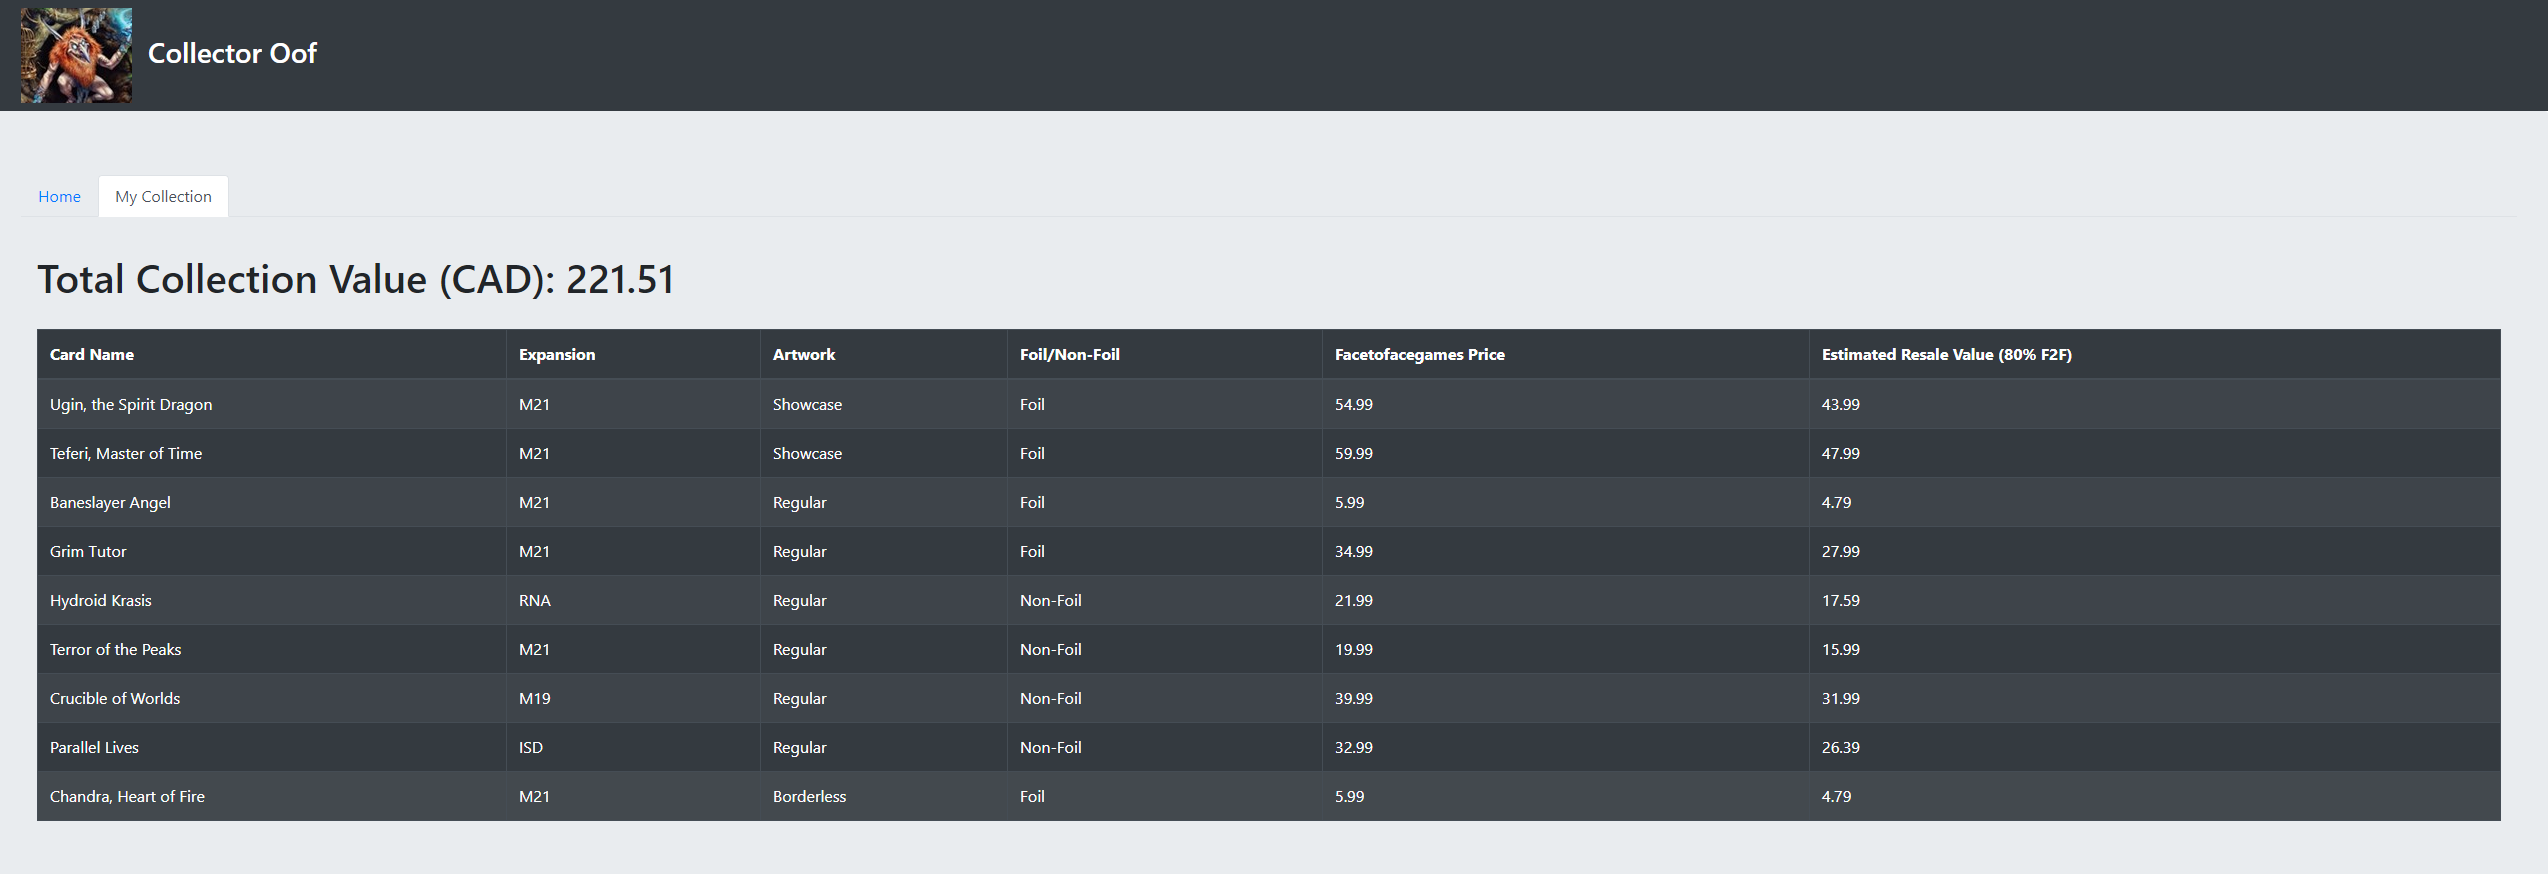
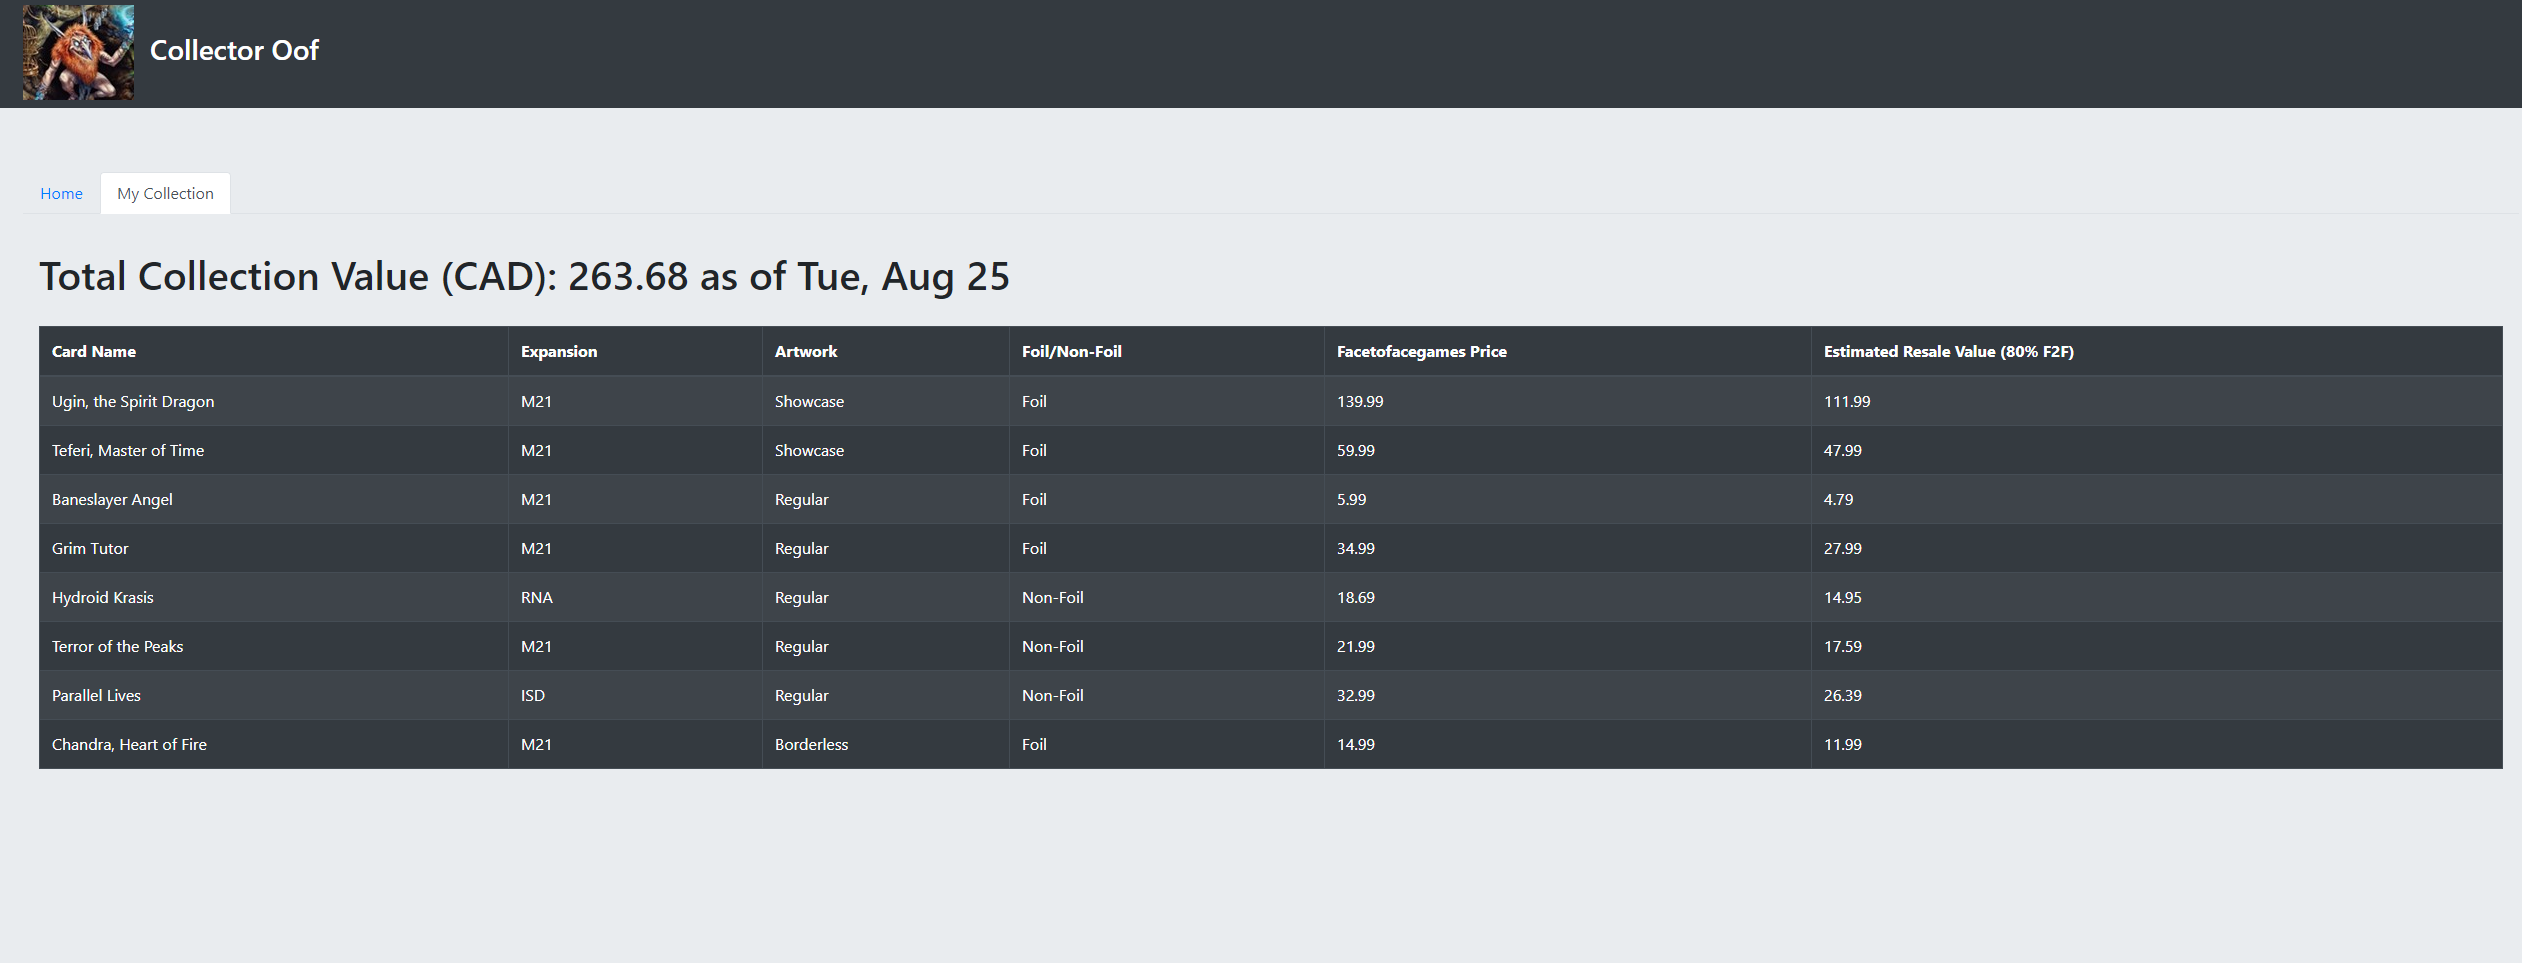
Added query test cases and today's date in frontend

diff --git a/server/tests/querybuilder.test.js b/server/tests/querybuilder.test.js
@@ -1,0 +1,41 @@
+const querybuilder = require('../helper/querybuilder');
+
+describe ('Card with comma', () => {
+  test('Teferi, Time Reveler', () => {
+    expect(querybuilder('Teferi, Time Raveler', 'WAR', 'Regular')).toBe('teferi-time-raveler-war-of-the-spark');
+  })
+})
+
+describe ('Card with hyphen', () => {
+  test('Krark-Clan Ironworks', () => {
+    expect(querybuilder('Krark-Clan Ironworks', '5DN', 'Regular')).toBe('krark-clan-ironworks-5dn')
+  })
+})
+
+describe ('Showcase card', () => {
+  test('Ugin, the Spirit Dragon', () => {
+    expect(querybuilder('Ugin, the Spirit Dragon', 'M21', 'Showcase')).toBe('ugin-the-spirit-dragon-showcase-core-set-2021')
+  })  
+})
+
+describe ('Card with multiple alternate and showcase versions', () => {
+  test('Teferi, Master of Time Showcase', () => {
+    expect(querybuilder('Teferi, Master of Time', 'M21', 'Showcase')).toBe('teferi-master-of-time-showcase-290-core-set-2021')
+  })
+  
+  test('Teferi, Master of Time Alternate Art', () => {
+    expect(querybuilder('Teferi, Master of Time', 'M21', 'Alternate')).toBe('teferi-master-of-time-alternate-art-275-core-set-2021')
+  })
+})
+
+describe ('Borderless card', () => {
+  test('Chandra, Heart of Fire', () => {
+    expect(querybuilder('Chandra, Heart of Fire', 'M21', 'Borderless')).toBe('chandra-heart-of-fire-borderless-core-set-2021')
+  })
+  
+  test('Teferi, Master of Time', () => {
+    expect(querybuilder('Teferi, Master of Time', 'M21', 'Borderless')).toBe('teferi-master-of-time-borderless-core-set-2021')
+  })
+})
+
+

diff --git a/client/src/components/MTGCollection.tsx b/client/src/components/MTGCollection.tsx
@@ -1,6 +1,7 @@
 import React, {useState, useEffect} from 'react';
 import './styles/MTGCollection.scss';
 import { Table } from 'react-bootstrap';
+import { DateNow } from './DateNow';
 
 type Card = {
   name: string
@@ -27,6 +28,7 @@ export const MTGCollection: React.FC<{}> = () => {
   const [totalPrice, setTotalPrice] = useState("");
   const [data, setData] = useState<any[]>([]);
   const [isLoading, setIsLoading] = useState(true);
+  const [date, setDate] = useState("");
 
   useEffect(() => {
     async function fetchData() {
@@ -36,6 +38,9 @@ export const MTGCollection: React.FC<{}> = () => {
       setIsLoading(false)
     }
     fetchData();
+
+    let someDate: Date = new Date(Date.now())
+    setDate(someDate.toString());
   }, [])
 
   if (isLoading)
@@ -44,8 +49,8 @@ export const MTGCollection: React.FC<{}> = () => {
   }
 
   return (
-    <>
-      <h1 className='page-title'>Total Collection Value (CAD): {totalPrice}</h1>
+    <div>
+      <h1 className='page-title'>Total Collection Value (CAD): {totalPrice} as of <DateNow date={date}/></h1>
       <Table striped bordered hover variant='dark'>
         <thead>
           <tr>
@@ -72,6 +77,6 @@ export const MTGCollection: React.FC<{}> = () => {
         })}
         </tbody>
       </Table>
-    </>
+    </div>
   )
 }

diff --git a/server/helper/querybuilder.js b/server/helper/querybuilder.js
@@ -1,11 +1,28 @@
 const cardset = require('./cardset');
 
-const querybuilder = (cardname, expansion) => {
+const querybuilder = (cardname, expansion, style) => {
 
-  let exp_code = cardset.find(item => item.code === expansion).queryname
+  let exp_code = cardset.find(item => item.code === expansion).queryname;
 
   const regex = /\s/g;
-  let query = cardname.concat('-' + exp_code).replace(regex, '-').replace(',', '').toLowerCase()
+  let query = cardname;
+
+  if (style === 'Showcase' || style === 'Borderless')
+  {
+    query = query.concat('-' + style);
+
+    if (cardname === 'Teferi, Master of Time' && style == 'Showcase') {
+      query = query.concat('-290'); //Use 290 as one of 4 card editions of this type
+    }
+  } else if (style === 'Alternate') {
+    query = query.concat('-' + style + '-art')
+
+    if (cardname === 'Teferi, Master of Time') {
+      query = query.concat('-275') //Use 275 as one of 4 card editions of this type
+    }
+  }
+
+  query = query.concat('-' + exp_code).replace(regex, '-').replace(',', '').toLowerCase()
 
   return query
 }

diff --git a/server/api/cardprice.js b/server/api/cardprice.js
@@ -15,7 +15,7 @@ router.get('/all', async(req, res) => {
       style: style
     }
 
-    const query = querybuilder(card_name, expansion);
+    const query = querybuilder(card_name, expansion, style);
     let URL = `https://www.facetofacegames.com/${query}/`;
 
     const browser = await puppeteer.launch({headless: true});

diff --git a/client/src/components/DateNow.tsx b/client/src/components/DateNow.tsx
@@ -1,0 +1,16 @@
+import React from 'react';
+
+type DateObj = {
+  date: string;
+}
+
+export const DateNow: React.FC<DateObj> = ({date}) => {
+
+  let dayOfweek = date.substr(0,3);
+  let month_day = date.substr(4,6);
+
+
+  return (
+    <>{dayOfweek}, {month_day}</>
+  )
+}

diff --git a/server/db/data.js b/server/db/data.js
@@ -36,12 +36,6 @@ const data = [
     foil: false
   },
   {
-    name: 'Crucible of Worlds',
-    expansion: 'M19',
-    style: 'Regular',
-    foil: false
-  },
-  {
     name: 'Parallel Lives',
     expansion: 'ISD',
     style: 'Regular',

diff --git a/server/helper/cardset.js b/server/helper/cardset.js
@@ -26,6 +26,14 @@ const cardset = [
   {
     code: 'ISD',
     queryname: 'innistrad'
+  },
+  {
+    code: 'WAR',
+    queryname: 'war-of-the-spark'
+  },
+  {
+    code: '5DN',
+    queryname: '5dn'
   }
 ]
 

diff --git a/client/src/components/styles/MTGCollection.scss b/client/src/components/styles/MTGCollection.scss
@@ -2,3 +2,7 @@
 .page-title {
   padding: 0.5em 0;
 }
+
+.collection-table {
+  height: 100vh;
+}

diff --git a/client/src/App.scss b/client/src/App.scss
@@ -49,3 +49,7 @@
 .logo-img {
   padding: 0 1em;
 }
+
+html {
+  background-color:#e9ecef;
+}
